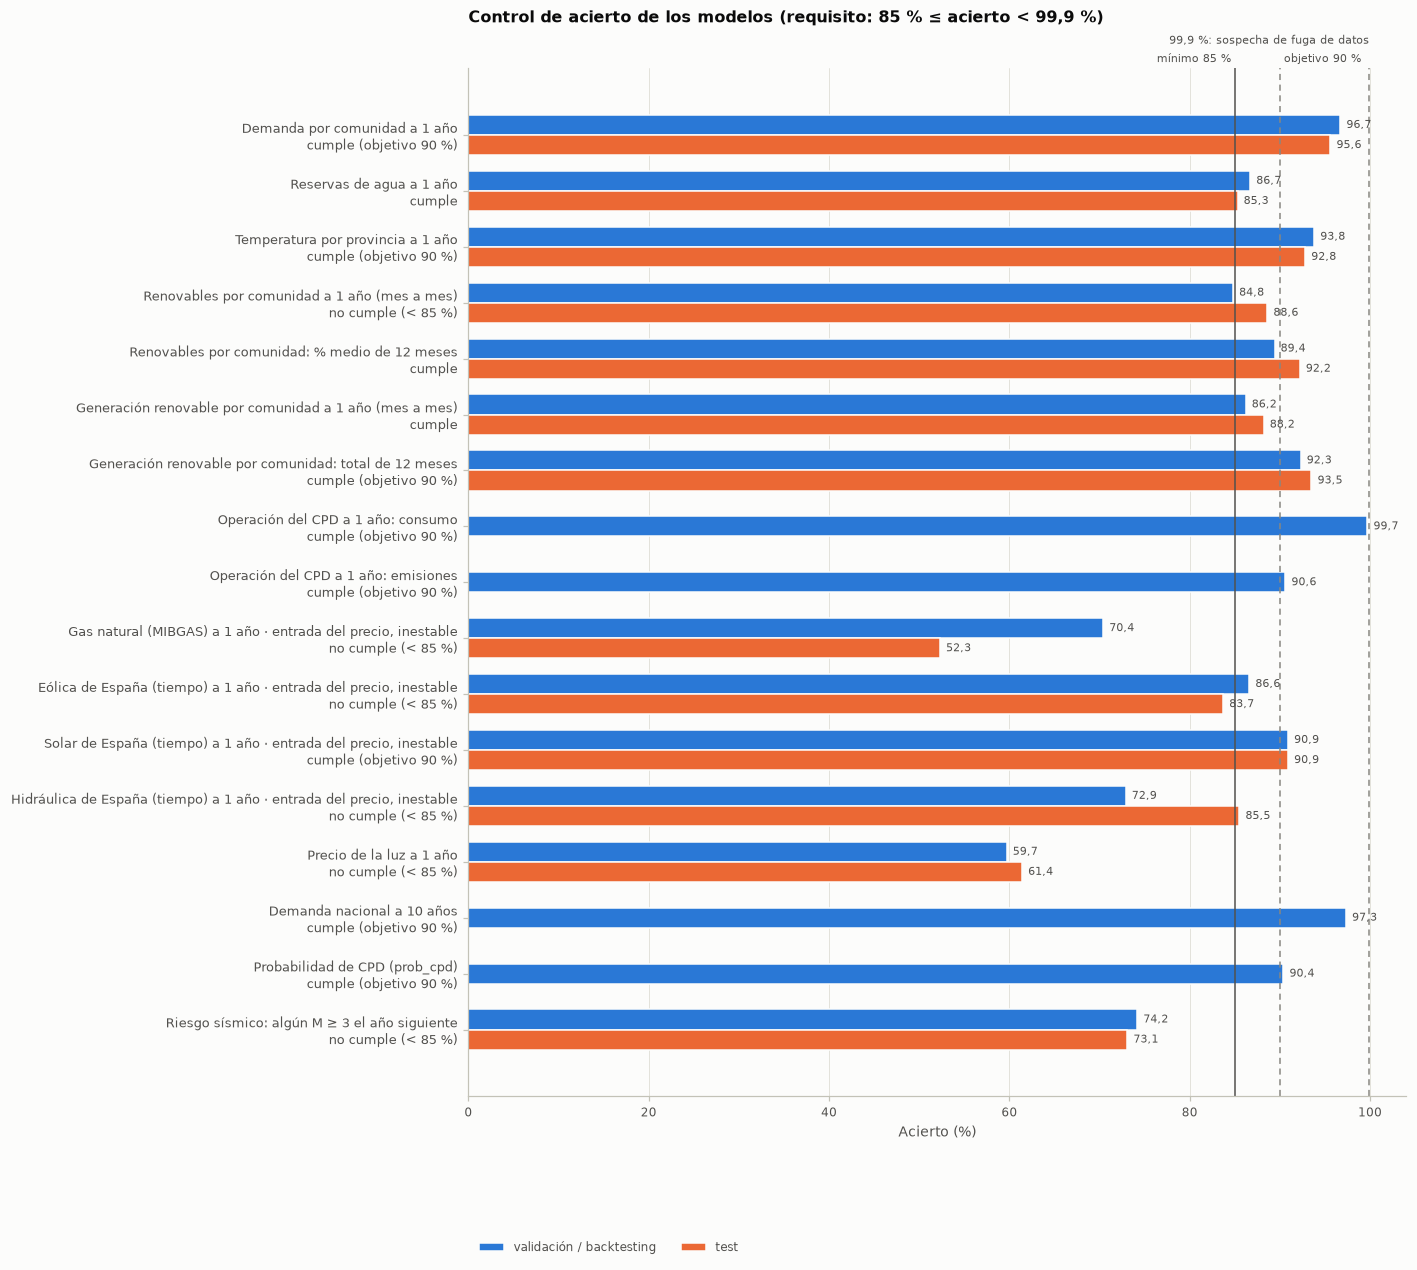
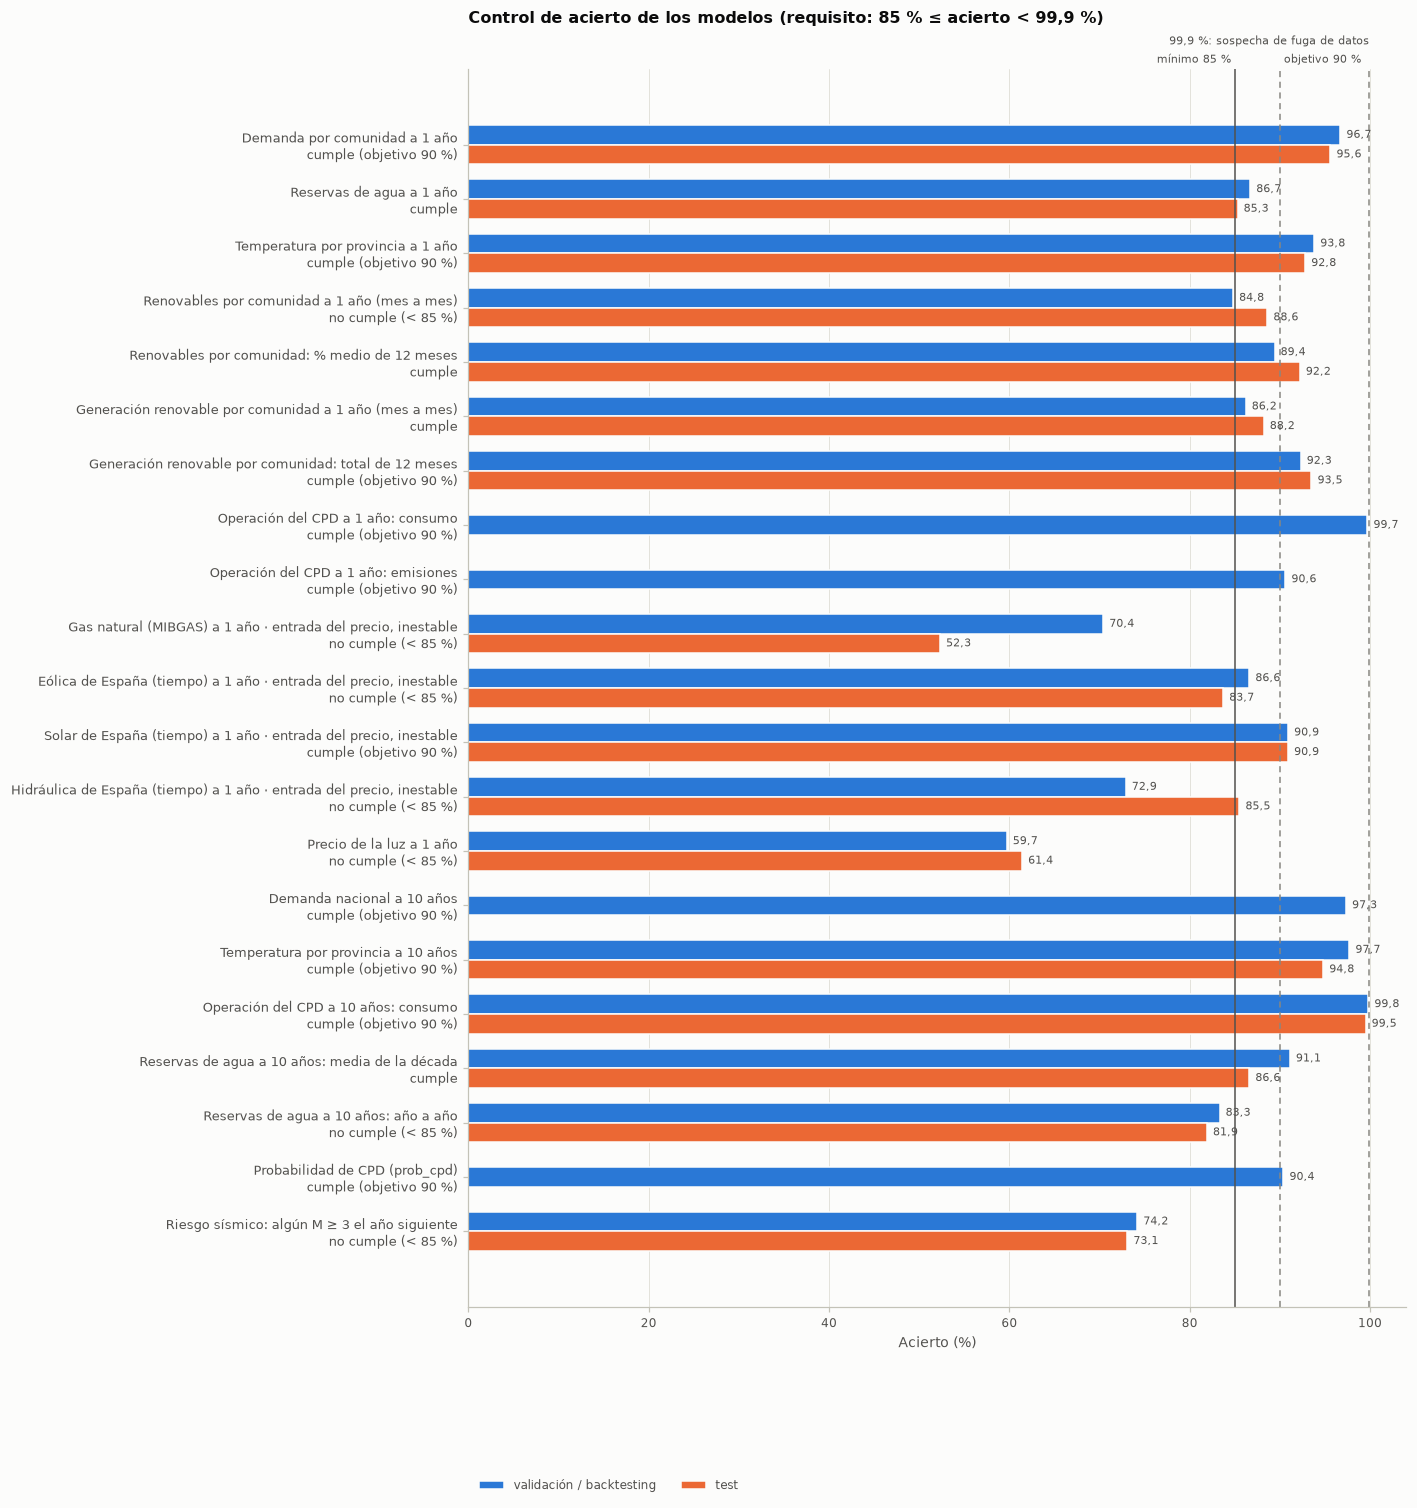
docs(analisis): informe y figuras con el medio plazo a 10 años

diff --git a/docs/analisis/previsiones_1_anio.md b/docs/analisis/previsiones_1_anio.md
@@ -34,10 +34,14 @@ indica una fuga de información. El control se ejecuta en cada `python -m cpd.mo
 | Hidráulica de España (tiempo) a 1 año · entrada del precio, inestable | 72,9 % | 85,5 % | 100 − WAPE | no cumple (< 85 %) |
 | Precio de la luz a 1 año | 59,7 % | 61,4 % | 100 − WAPE | no cumple (< 85 %) |
 | Demanda nacional a 10 años | 97,3 % | — | 100 − WAPE (backtesting 2012-2025) | cumple (objetivo 90 %) |
+| Temperatura por provincia a 10 años | 97,7 % | 94,8 % | 100 − WAPE (en °C; test desde 2015) | cumple (objetivo 90 %) |
+| Operación del CPD a 10 años: consumo | 99,8 % | 99,5 % | 100 − WAPE (temperatura prevista → PUE → consumo) | cumple (objetivo 90 %) |
+| Reservas de agua a 10 años: media de la década | 91,1 % | 86,6 % | 100 − WAPE de la media de los 10 años | cumple |
+| Reservas de agua a 10 años: año a año | 83,3 % | 81,9 % | 100 − WAPE de cada año | no cumple (< 85 %) |
 | Probabilidad de CPD (prob_cpd) | 90,4 % | — | accuracy fuera de pliegue | cumple (objetivo 90 %) |
 | Riesgo sísmico: algún M ≥ 3 el año siguiente | 74,2 % | 73,1 % | accuracy (validación 2018-2024, test 2025) | no cumple (< 85 %) |
 
-**No cumplen:** Renovables por comunidad a 1 año (mes a mes) (no cumple (< 85 %)); Gas natural (MIBGAS) a 1 año · entrada del precio, inestable (no cumple (< 85 %)); Eólica de España (tiempo) a 1 año · entrada del precio, inestable (no cumple (< 85 %)); Hidráulica de España (tiempo) a 1 año · entrada del precio, inestable (no cumple (< 85 %)); Precio de la luz a 1 año (no cumple (< 85 %)); Riesgo sísmico: algún M ≥ 3 el año siguiente (no cumple (< 85 %)). Sus previsiones se enseñan solo como escenario, con el aviso, y no se usan como dato en el simulador.
+**No cumplen:** Renovables por comunidad a 1 año (mes a mes) (no cumple (< 85 %)); Gas natural (MIBGAS) a 1 año · entrada del precio, inestable (no cumple (< 85 %)); Eólica de España (tiempo) a 1 año · entrada del precio, inestable (no cumple (< 85 %)); Hidráulica de España (tiempo) a 1 año · entrada del precio, inestable (no cumple (< 85 %)); Precio de la luz a 1 año (no cumple (< 85 %)); Reservas de agua a 10 años: año a año (no cumple (< 85 %)); Riesgo sísmico: algún M ≥ 3 el año siguiente (no cumple (< 85 %)). Sus previsiones se enseñan solo como escenario, con el aviso, y no se usan como dato en el simulador.
 
 
 ## Cómo se ha buscado el menor error
@@ -420,7 +424,7 @@ deriva, tendencia lineal, Holt amortiguado y la combinación de los 3 mejores.
 
 MAPE por horizonte (cuantos más años vista, menos orígenes con los que medirlo):
 
-| Años vista | Orígenes | Combinación de los 3 mejores | holt_amortiguado | tendencia_lineal | sin_cambio |
+| Años vista | Orígenes | Combinación de los 3 mejores | Holt con tendencia amortiguada | Tendencia lineal | Sin cambio (último año) |
 |---|---|---|---|---|---|
 | 1 | 14 | 1,9 % | 2,3 % | 2,2 % | 1,9 % |
 | 2 | 13 | 2,8 % | 3,2 % | 2,9 % | 2,7 % |
@@ -434,13 +438,86 @@ MAPE por horizonte (cuantos más años vista, menos orígenes con los que medirl
 | 10 | 5 | 2,2 % | 4,0 % | 5,4 % | 4,7 % |
 
 **Resultado.** Modelo elegido: **Combinación de los 3 mejores**
-(holt_amortiguado, tendencia_lineal, sin_cambio); acierto en el backtesting **97,3 %**. Previsión:
+(Holt con tendencia amortiguada, Tendencia lineal, Sin cambio (último año)); acierto en el backtesting **97,3 %**. Previsión:
 251 TWh en 2026 y **244 TWh en 2035** (intervalo 10-90 %:
 221-269 TWh), frente a 256 TWh en 2025.
 
 **Limitación.** Es una previsión **tendencial**: no incluye la electrificación, el hidrógeno ni los nuevos centros de
 datos, que pueden hacer crecer la demanda. Un CPD de 50 MW de TI consume unos 0,46 TWh al año (el 0,2 % de la demanda
 nacional). El intervalo a más de 7 años se extrapola (σ·√h) porque hay pocos orígenes para medirlo.
+
+## Medio plazo: clima y agua a 10 años (sostenibilidad operativa, objetivo A3)
+
+El objetivo A3 pide previsiones a corto **y medio plazo** de la sostenibilidad operativa del CPD. A 1 año ya están el
+PUE, el consumo y las emisiones; a 10 años (2026-2035) lo que cambia la operación es el **clima** (temperatura →
+PUE → consumo) y el **agua** de los embalses del ámbito. Código: `src/cpd/modelos/medio_plazo.py`.
+
+**Datos nuevos.** La tabla diaria de clima empieza en 2015 y no basta para validar 10 años. Se añade la temperatura
+**mensual de NASA POWER desde 1981** (la misma fuente y el mismo punto que la diaria: en los meses comunes difieren
+0,003 °C de media). Las reservas de MITECO ya venían desde 1988.
+
+**Protocolo.** Test: lo que se habría previsto desde 2015 para 2016-2025 (ningún modelo lo ve).
+Validación: orígenes 1995-2005 en la temperatura y 1997-2005 en las reservas, cuyos 10 años
+previstos terminan antes del test, para que la elección no mire ningún año del test. Candidatos: sin cambio, media de 10
+años, media larga (30 años), tendencia lineal de 30 años, media de 10 años más la tendencia, Holt amortiguado y la
+combinación de los 3 mejores por MAE de validación.
+
+![Medio plazo](../../docs/figuras/previsiones/16_medio_plazo_10_anios.png)
+
+**Figura 11b.** (a) Temperatura media anual de España (media de las 52 capitales): real, lo que se habría previsto
+desde 2015 (test) y previsión a 10 años con su intervalo 10-90 %. (b) Reserva media de los embalses de cada
+ámbito: últimos 10 años (azul) y próxima década (naranja).
+
+### Temperatura por provincia a 10 años
+
+| Modelo | MAE validación (°C) | MAE test (°C) | Acierto validación | Acierto test |
+|---|---|---|---|---|
+| Combinación de los 3 mejores **(elegido)** | 0,34 | 0,79 | 97,7 % | 94,8 % |
+| Media de 10 años (en la combinación) | 0,34 | 0,79 | 97,6 % | 94,9 % |
+| Media larga (30 años) (en la combinación) | 0,34 | 0,89 | 97,6 % | 94,2 % |
+| Holt con tendencia amortiguada (en la combinación) | 0,36 | 0,71 | 97,5 % | 95,4 % |
+| Tendencia lineal de 30 años | 0,37 | 0,71 | 97,5 % | 95,4 % |
+| Media de 10 años + tendencia de 30 | 0,37 | 0,71 | 97,4 % | 95,4 % |
+| Sin cambio (último año) | 0,44 | 0,49 | 97,0 % | 96,8 % |
+
+Elegido: **Combinación de los 3 mejores** (Media de 10 años, Media larga (30 años), Holt con tendencia amortiguada). Acierto **97,7 %** en validación y
+**94,8 %** en test (error medio 0,34 y 0,79 °C). El test es peor porque 2016-2025 se calentó más
+de lo que decía la historia: los modelos con tendencia habrían acertado algo más en el test, pero en la validación (que
+es con lo que se elige) no ganaban. Se dice tal cual, sin cambiar la elección: la validación cae en 1996-2015, años
+en que la temperatura subió más despacio.
+
+**Sensibilidad (no es la previsión elegida).** Si sigue la tendencia de los últimos 30 años
+(0,48 °C por década), la media de España en 2035 sería 16,1 °C en lugar de 15,5 °C (últimos 10
+años: 15,4 °C). El PUE medio pasaría de 1,455 a 1,461 y el consumo del CPD subiría un
+0,5 % respecto a la última década: el calentamiento afecta poco a la operación con la fórmula del simulador.
+
+**Consumo del CPD a 10 años, de punta a punta** (temperatura prevista → PUE → consumo, frente a lo mismo con la
+temperatura real): **99,8 %** en validación y **99,5 %** en test. Es tan alto porque el PUE del simulador
+cambia poco con la temperatura; no hay fuga (la temperatura real de cada año no se usa para prever ese año).
+
+Más calor previsto en 2035: Palmas, Las (20,5 °C, PUE 1,50), Santa Cruz de Tenerife (20,1 °C, PUE 1,50), Balears, Illes (19,8 °C, PUE 1,50), Melilla (19,4 °C, PUE 1,49), Cádiz (18,9 °C, PUE 1,49). Menos: Soria (10,3 °C, PUE 1,40), Burgos (11,2 °C, PUE 1,41), León (11,4 °C, PUE 1,41), Teruel (11,7 °C, PUE 1,42), Ávila (11,7 °C, PUE 1,42).
+
+### Reserva de agua por ámbito a 10 años
+
+| Modelo | MAE validación (puntos) | MAE test (puntos) | Acierto validación | Acierto test |
+|---|---|---|---|---|
+| Combinación de los 3 mejores **(elegido)** | 10,21 | 10,76 | 83,3 % | 81,9 % |
+| Media de 10 años (en la combinación) | 10,65 | 10,94 | 82,6 % | 81,5 % |
+| Media larga (30 años) (en la combinación) | 10,91 | 9,26 | 82,2 % | 84,4 % |
+| Sin cambio (último año) (en la combinación) | 11,66 | 13,56 | 80,9 % | 77,1 % |
+| Tendencia lineal de 30 años | 12,95 | 16,20 | 78,8 % | 72,7 % |
+| Media de 10 años + tendencia de 30 | 13,16 | 15,34 | 78,5 % | 74,1 % |
+| Holt con tendencia amortiguada | 13,40 | 14,10 | 78,1 % | 76,2 % |
+
+Elegido: **Combinación de los 3 mejores** (Media de 10 años, Media larga (30 años), Sin cambio (último año)). **Año a año** acierta 83,3 % en validación y
+81,9 % en test: **no llega al 85 %**, porque el año concreto de una sequía no se puede saber con 10 años de
+antelación. Para un CPD lo que cuenta en una inversión a 10 años es el **agua media de la década**, y esa sí cumple:
+**91,1 %** en validación y **86,6 %** en test. El año a año se enseña como orientativo.
+
+Ámbitos con menos reserva media prevista: Segura (29 %), Júcar (46 %), Cuenca Mediterránea Andaluza (46 %), Guadalete-Barbate (48 %).
+
+**Emisiones a 10 años: no se prevén.** El mix por comunidad solo existe desde 2015 (11 años), con lo que no se puede
+validar un horizonte de 10 años; además depende sobre todo de decisiones políticas (PNIEC), no de la historia.
 
 
 ## Errores por horizonte y comparación de modelos
